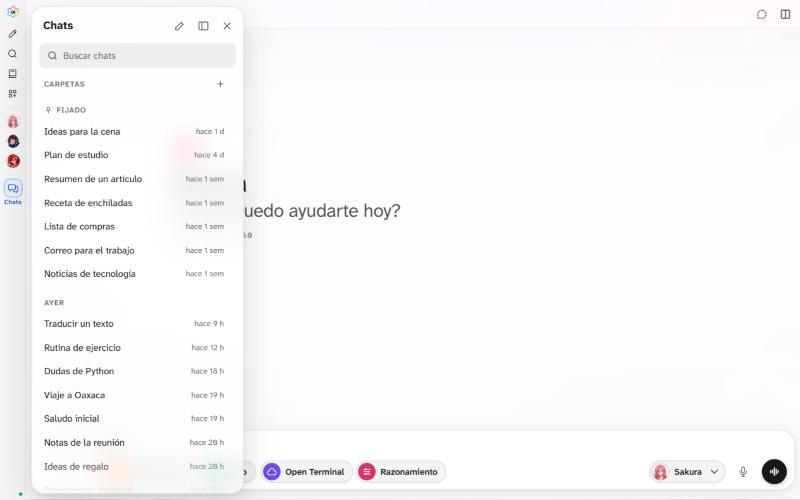
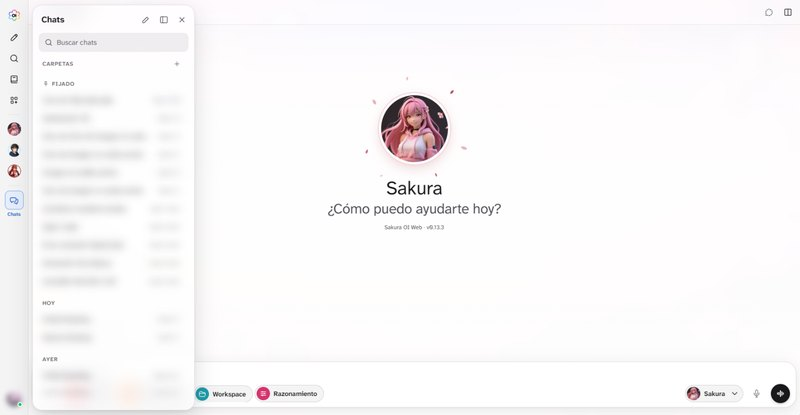
Capturas actualizadas a Carbono 0.90 (sin títulos de chats)

diff --git a/README.md b/README.md
@@ -12,23 +12,23 @@ La guía de estilo (principios, colores, tipografía y componentes) está en [do
 
 ### Escritorio
 
-| Inicio | Conversación |
+| Bienvenida con pétalos | Conversación |
 | --- | --- |
-| ![Pantalla de inicio en escritorio](docs/capturas/escritorio-inicio.jpg) | ![Conversación en escritorio](docs/capturas/escritorio-conversacion.jpg) |
+| ![Bienvenida con el avatar del modelo y pétalos en sus colores](docs/capturas/escritorio-inicio.jpg) | ![Conversación con una imagen generada y el medidor de rendimiento](docs/capturas/escritorio-conversacion.jpg) |
 
-| Barra contraída con chats | Panel lateral de pestañas |
+| Barra contraída con chats | Vista dividida con Archivos |
 | --- | --- |
-| ![Panel de chats desde la barra contraída](docs/capturas/escritorio-chats.jpg) | ![Panel lateral con la pestaña Archivos](docs/capturas/escritorio-panel.jpg) |
+| ![Panel de chats desde la barra contraída](docs/capturas/escritorio-chats.jpg) | ![Vista dividida con la pestaña Archivos y los chips en bolitas](docs/capturas/escritorio-panel.jpg) |
 
-| Integraciones | Selector de modelo |
+| Menú «+» | Selector de modelo |
 | --- | --- |
-| ![Menú de integraciones](docs/capturas/escritorio-integraciones.jpg) | ![Selector de modelo](docs/capturas/escritorio-selector-modelo.jpg) |
+| ![Menú «+» reorganizado](docs/capturas/escritorio-menu-mas.jpg) | ![Selector de modelo](docs/capturas/escritorio-selector-modelo.jpg) |
 
 ### Móvil
 
-| Composer | Herramientas y opciones |
+| Bienvenida | Menú «+» |
 | --- | --- |
-| ![Composer en el teléfono](docs/capturas/movil-inicio.jpg) | ![Hoja de herramientas y opciones](docs/capturas/movil-opciones.jpg) |
+| ![Bienvenida en el teléfono con el + y las bolitas de las opciones activas](docs/capturas/movil-inicio.jpg) | ![Menú «+» en el teléfono con Imagen, Razonamiento y Trabajo](docs/capturas/movil-menu-mas.jpg) |
 
 ## Qué cambia
 
